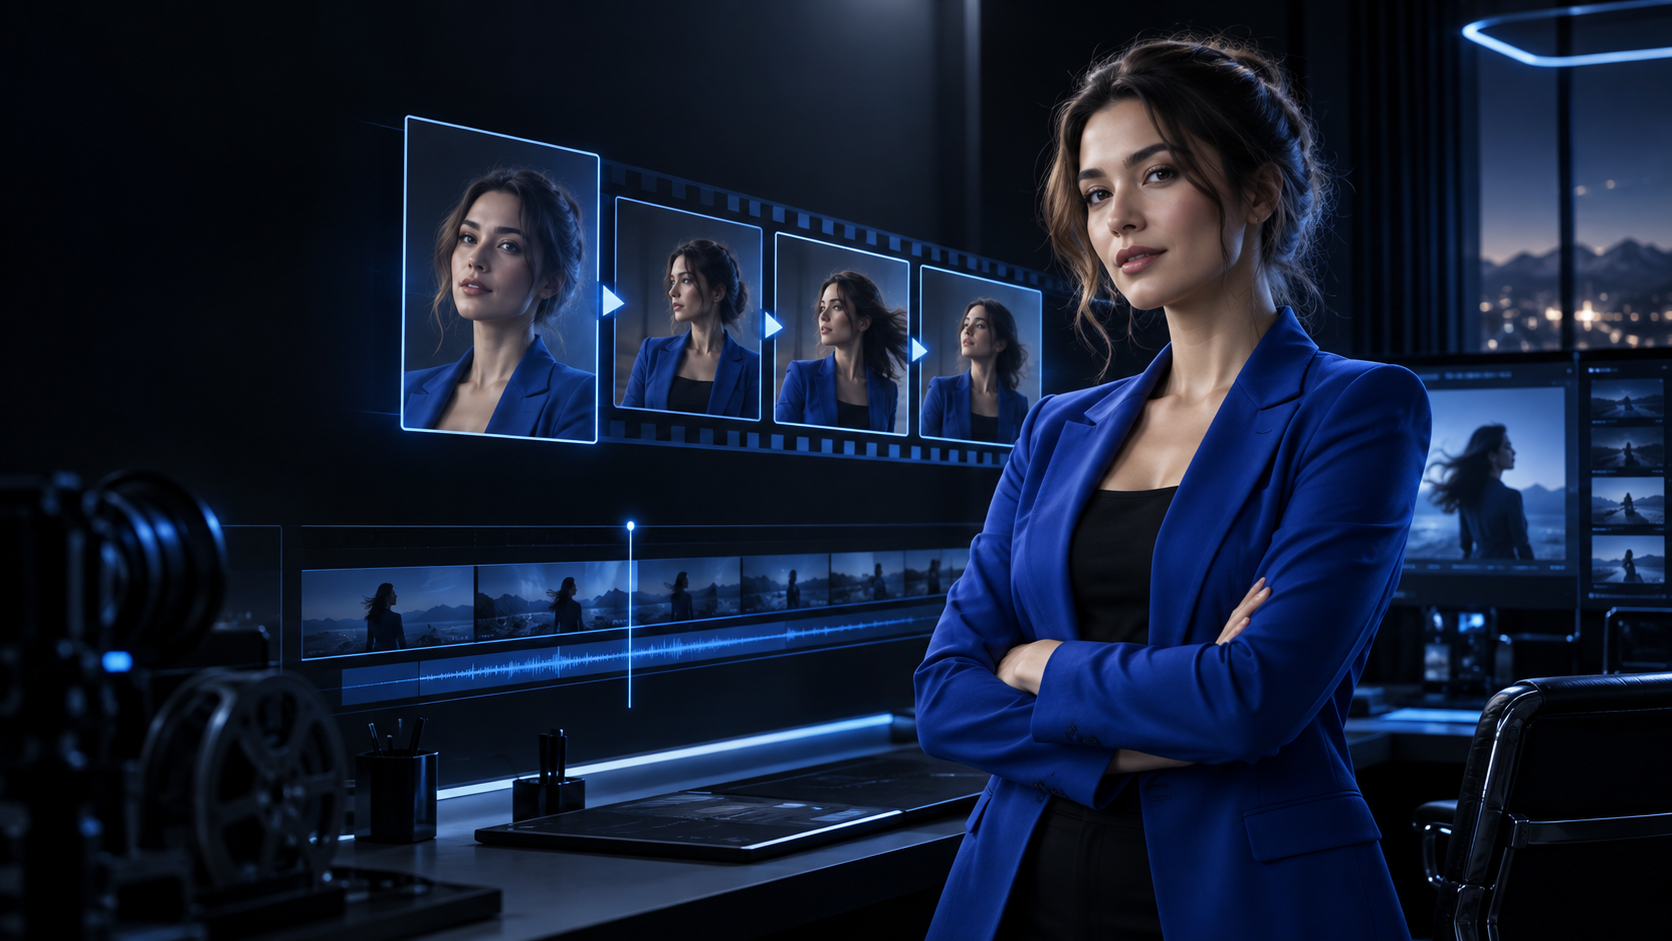
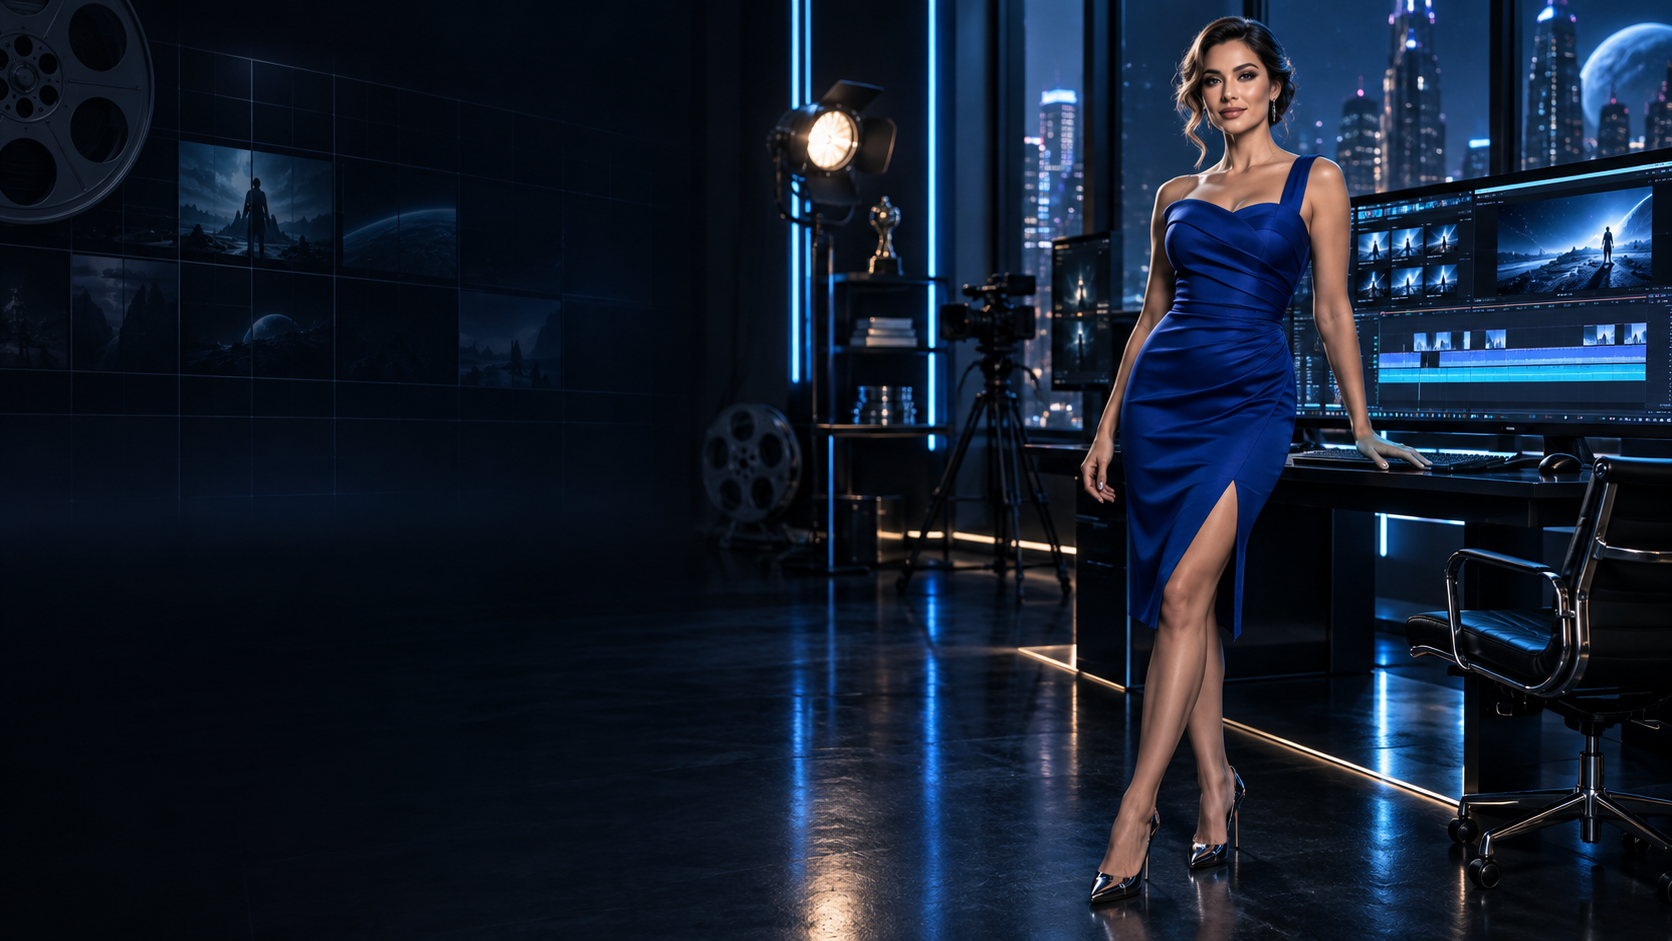
Refresh Playbox hero with glamorous fashion visual

diff --git a/AGENTS.md b/AGENTS.md
@@ -3,7 +3,7 @@
 - Build with Astro static output and Markdown content collections.
 - Deploy `dist/client` through GitHub-connected Cloudflare Pages.
 - Visual direction: near-black template library, electric blue, cool white, and restrained violet; cinematic image-to-video lab atmosphere.
-- All imagery must show clearly adult, fully clothed, non-explicit fictional subjects.
+- All imagery must show clearly adult, non-explicit fictional subjects styled as glamorous mainstream fashion: attractive eveningwear, tasteful necklines, and visible legs are welcome; nudity, transparent garments, pornographic framing, and sexual acts are not.
 - The site is an independent guide and must clearly distinguish itself from the official Playbox product.
 - SEO/GEO content is people-first and answer-led, with original comparison dimensions, visible authorship and update dates, primary sources, crawlable internal links, matching structured data, sitemap, RSS, and IndexNow.
 - Never add video generation, login, payment, media upload, or collection of private project files.

diff --git a/design-qa.md b/design-qa.md
@@ -8,4 +8,4 @@ Checked on 2026-09-21 against the production Astro build.
 - Header, navigation, hero buttons, trust labels, and mobile menu remain inside the viewport.
 - Mobile headline wraps without clipping; hero actions use full-width touch targets.
 - Visual identity follows the official product's black/electric-blue direction without copying explicit gallery media or claiming affiliation.
-- Source image is original, fully clothed, non-explicit, and depicts a clearly adult fictional subject.
+- Source image is original, non-explicit, and depicts a clearly adult fictional subject in glamorous opaque eveningwear with a tasteful neckline and visible legs.
